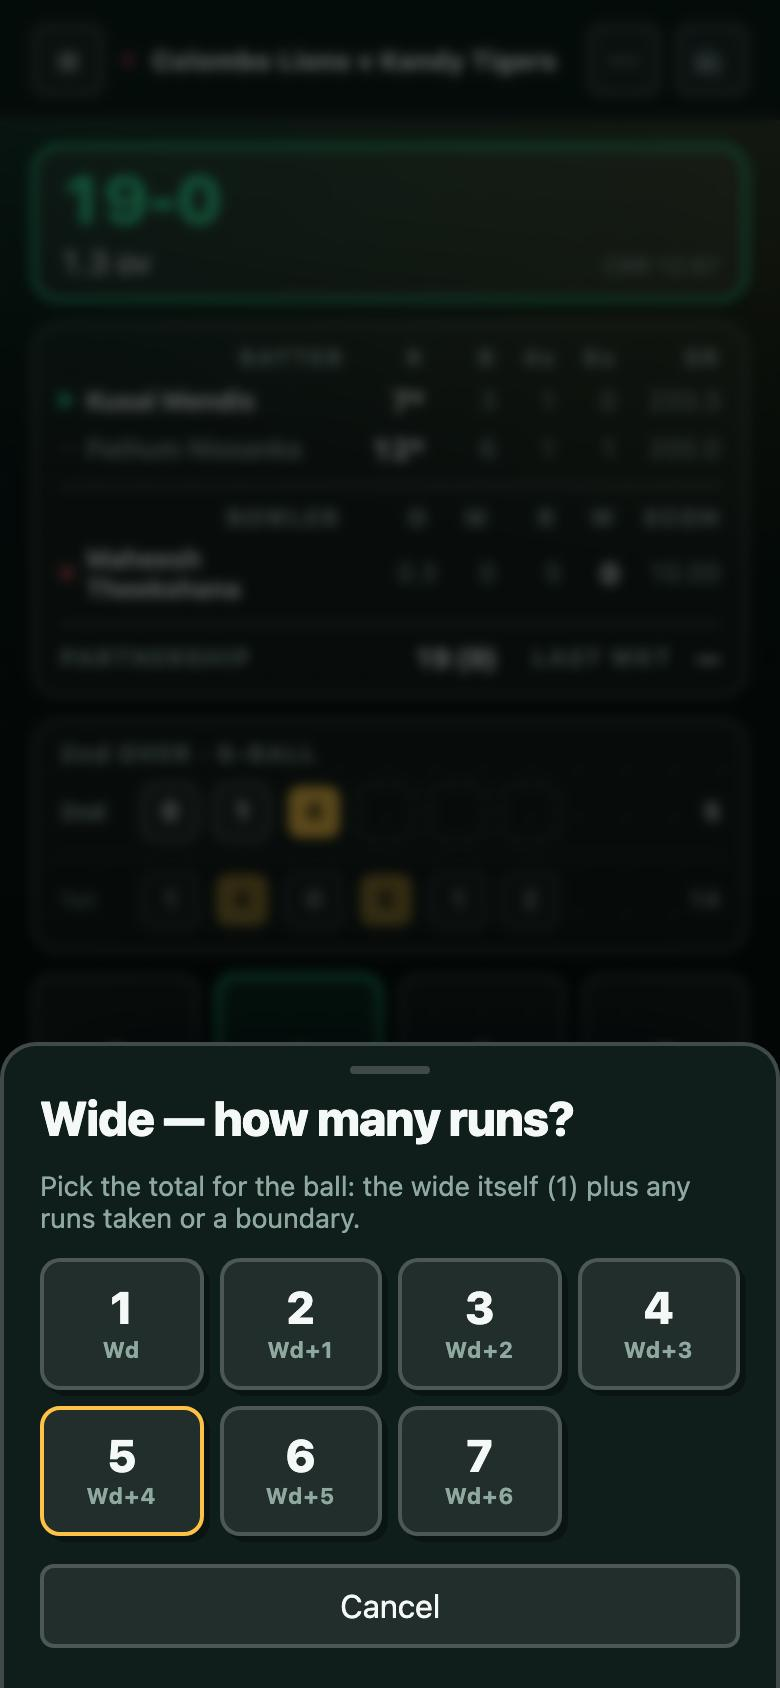
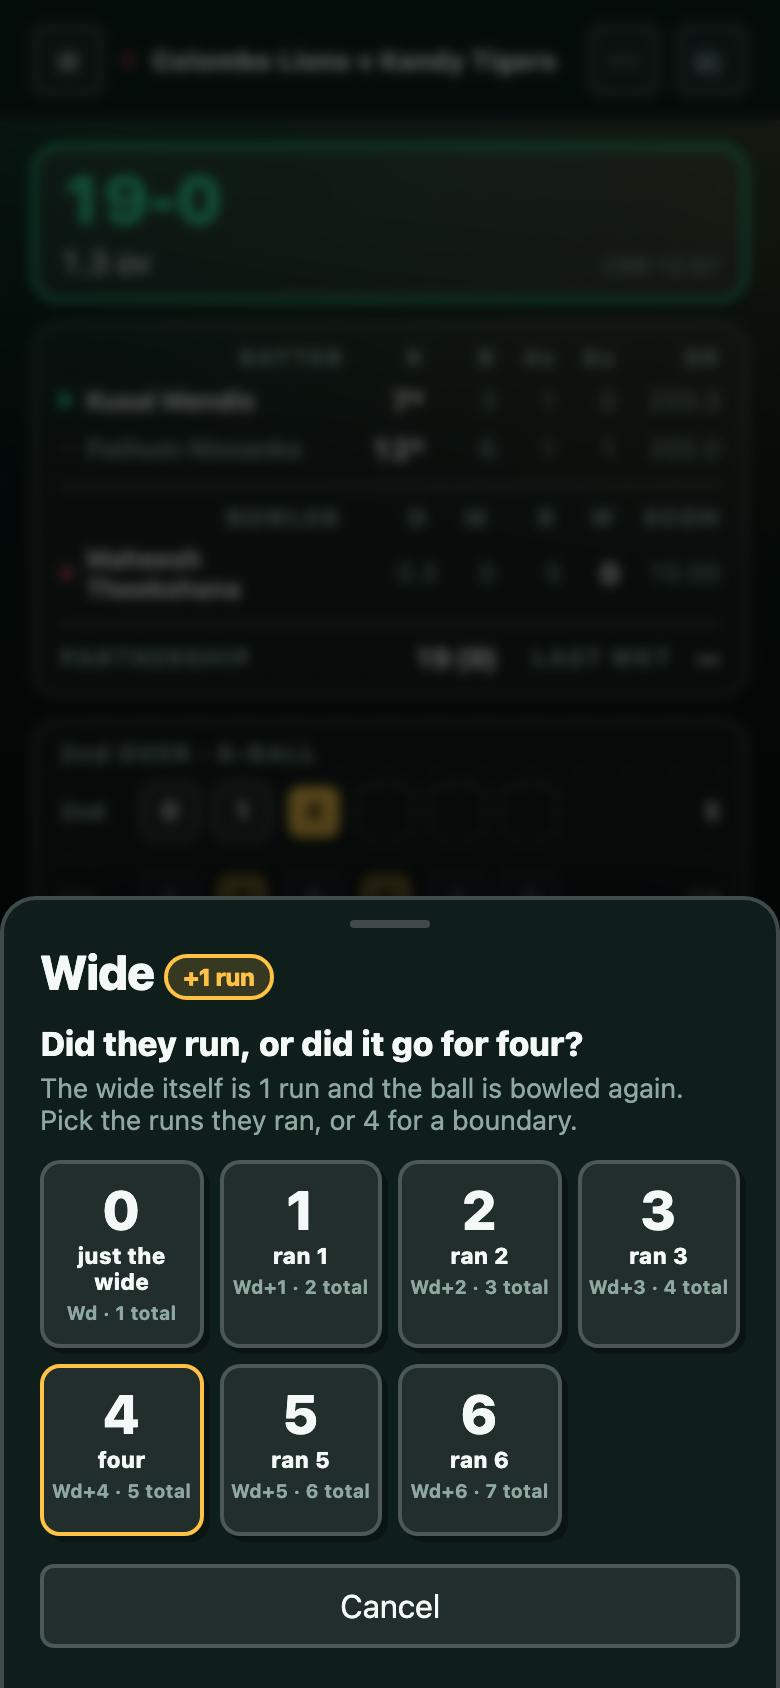
Extras sheet asks for the runs on top of a wide/no-ball, with clearer tiles
Big number = runs run or hit; each tile also names it (just the wide, four,
six) and shows the over chip and the ball's total. The base run is a badge
in the title. Tutorial text and screenshots updated.

Changed region(s): [[0.0, 0.5237, 0.9538, 0.8934], [0.9538, 0.5237, 1.0, 0.6469], [0.4308, 0.5237, 0.5538, 0.5545]]

diff --git a/js/ui/match/live.js b/js/ui/match/live.js
@@ -19,34 +19,47 @@ function handleBallClick(runs){
 /* An extra (wide / no-ball / bye / leg bye) always asks how many runs it was
    worth in its own sheet, so the scorer can't record it without choosing.
    ui.pendingExtra is both "is the sheet open" and which extra; a tap on a
-   tile goes through handleBallClick like the run pad used to. Each tile shows
-   the total the ball adds to the score (base run included) and the chip it
-   leaves in the over row. */
+   tile goes through handleBallClick like the run pad used to. For a wide or
+   no-ball the question is the runs run or hit *on top of* the extra itself
+   (that's what data-runs / event.runs is); each tile spells out the ball's
+   total and the chip it leaves in the over row. Byes/leg byes start at 1. */
 function renderExtraRunsModal(inn){
   const kind = ui.pendingExtra;
+  const plural = n => `${n} run${n === 1 ? "" : "s"}`;
   const cfg = {
     wide:   { title: "Wide", base: inn.wideBaseRuns, from: 0, chip: n => n ? `Wd+${n}` : "Wd",
-              hint: `Pick the total for the ball: the wide itself (${inn.wideBaseRuns}) plus any runs taken or a boundary.` },
+              ask: "Did they run, or did it go for four?",
+              note: `The wide itself is ${plural(inn.wideBaseRuns)} and the ball is bowled again. Pick the runs they ran, or 4 for a boundary.`,
+              label: n => n === 0 ? "just the wide" : n === 4 ? "four" : `ran ${n}` },
     noball: { title: "No ball", base: inn.noBallBaseRuns, from: 0, chip: n => n ? `Nb+${n}` : "Nb",
-              hint: `Pick the total for the ball: the no-ball itself (${inn.noBallBaseRuns}) plus any runs off the bat.${inn.freeHitOnNoBall ? " The next ball is a free hit." : ""}` },
-    bye:    { title: "Bye", base: 0, from: 1, chip: n => `B${n}`,
-              hint: "Byes go on the team total, not against the bowler." },
-    legbye: { title: "Leg bye", base: 0, from: 1, chip: n => `Lb${n}`,
-              hint: "Leg byes go on the team total, not against the bowler." }
+              ask: "How many off the bat (or run)?",
+              note: `The no-ball itself is ${plural(inn.noBallBaseRuns)} and the ball is bowled again${inn.freeHitOnNoBall ? "; the next ball is a free hit" : ""}. Pick the runs hit or run — they go to the batter.`,
+              label: n => n === 0 ? "just the no-ball" : n === 4 ? "four" : n === 6 ? "six" : plural(n) },
+    bye:    { title: "Byes", base: 0, from: 1, chip: n => `B${n}`,
+              ask: "How many byes?",
+              note: "Runs the batters ran (or a boundary) without the bat touching it. They count as a ball and go on the team total, not against the bowler.",
+              label: n => n === 4 ? "four" : plural(n) },
+    legbye: { title: "Leg byes", base: 0, from: 1, chip: n => `Lb${n}`,
+              ask: "How many leg byes?",
+              note: "Runs off the batter's body (not the bat). They count as a ball and go on the team total, not against the bowler.",
+              label: n => n === 4 ? "four" : plural(n) }
   }[kind];
   if (!cfg) return "";
   const options = [];
   for (let n = cfg.from; n <= 6; n++) options.push(n);
   return `
     <div class="modal-backdrop">
-      <div class="modal extra-runs-modal" data-keep-scroll="extra-runs">
+      <div class="modal extra-runs-modal" data-keep-scroll="extra-runs" role="dialog" aria-modal="true" aria-label="${cfg.title}">
         <div class="wicket-modal-head">
-          <h2>${cfg.title} — how many runs?</h2>
+          <h2>${cfg.title}${cfg.base ? ` <span class="extra-base">+${plural(cfg.base)}</span>` : ""}</h2>
         </div>
-        <p class="hint">${escapeHtml(cfg.hint)}</p>
+        <p class="extra-ask">${cfg.ask}</p>
+        <p class="hint">${escapeHtml(cfg.note)}</p>
         <div class="run-pad small extra-runs-pad">
-          ${options.map(n => `<button type="button" data-action="ball" data-runs="${n}" class="run-btn${n === 4 || (n === 6 && kind === "noball") ? " boundary" : ""}">
-            <span class="total">${cfg.base + n}</span><span class="chip-label">${cfg.chip(n)}</span>
+          ${options.map(n => `<button type="button" data-action="ball" data-runs="${n}" class="run-btn${n === 4 || (n === 6 && kind === "noball") ? " boundary" : ""}" aria-label="${cfg.label(n)}, ${plural(cfg.base + n)} in total">
+            <span class="total">${n}</span>
+            <span class="what">${cfg.label(n)}</span>
+            <span class="chip-label">${cfg.chip(n)} · ${cfg.base + n} total</span>
           </button>`).join("")}
         </div>
         <button type="button" data-action="close-extra" class="ghost" style="width:100%;margin-top:6px;">Cancel</button>

diff --git a/test.js b/test.js
@@ -948,17 +948,19 @@ async function main(){
     win.eval(`ui.matchMenu = null; { const inn = currentInnings(state.match); inn.bowler = "Wanindu"; ensureBowler(inn, "Wanindu"); } render();`);
     const extraBtn = x => doc.querySelector(`#app [data-action="toggle-extra"][data-extra="${x}"]`);
     const extraSheet = () => doc.querySelector("#modal-root .extra-runs-modal");
-    const tile = total => [...extraSheet().querySelectorAll('[data-action="ball"]')].find(b => b.querySelector(".total").textContent === String(total));
+    // Tiles ask for the runs on top of the extra; the big number is that, the small line the total.
+    const tile = runs => extraSheet().querySelector(`[data-action="ball"][data-runs="${runs}"]`);
     const runsNow = () => win.eval("currentInnings(state.match).runs");
     let before = runsNow();
     extraBtn("wide").click();
-    assert(extraSheet() && /Wide/.test(extraSheet().textContent) && tile(1) && tile(1).textContent.includes("Wd"), "tapping Wide opens a 'how many runs?' sheet; its first tile is the plain wide");
-    tile(5).click();
+    assert(extraSheet() && /Wide/.test(extraSheet().textContent) && tile(0) && /just the wide/.test(tile(0).textContent) && /Wd · 1 total/.test(tile(0).textContent), "tapping Wide asks for the runs on top; the 0 tile is just the wide (1 total)");
+    assert(tile(4).querySelector(".total").textContent === "4" && /Wd\+4 · 5 total/.test(tile(4).textContent), "the 4 tile shows 4 (a boundary) and that the ball is worth 5");
+    tile(4).click();
     assert(!extraSheet() && runsNow() === before + 5 && win.eval("currentInnings(state.match).extras.wides") >= 5, "a tile records the wide with that total (Wd+4 = 5) and closes the sheet");
     before = runsNow();
     extraBtn("noball").click();
-    tile(5).click();
-    assert(runsNow() === before + 5 && win.eval("currentInnings(state.match).freeHit") === true, "no-ball tile 5 = Nb + 4 off the bat, and sets the free hit");
+    tile(4).click();
+    assert(runsNow() === before + 5 && win.eval("currentInnings(state.match).freeHit") === true, "no-ball tile 4 = Nb + 4 off the bat (5), and sets the free hit");
     before = runsNow();
     extraBtn("bye").click();
     assert(!tile(0) && tile(1), "byes start at 1");

diff --git a/css/app.css b/css/app.css
@@ -204,9 +204,13 @@ button:disabled{opacity:.4;cursor:not-allowed;box-shadow:none;}
 }
 .extra-pad button.active{background:var(--accent);color:var(--accent-ink);border-color:var(--bg);}
 /* "How many runs?" sheet for an extra: total on top, over-row chip under it. */
-.extra-runs-pad .run-btn{ display:flex; flex-direction:column; align-items:center; gap:2px; padding:12px 0; }
-.extra-runs-pad .run-btn .total{ font-size:1.4rem; font-weight:800; line-height:1; }
-.extra-runs-pad .run-btn .chip-label{ font-size:.7rem; font-weight:700; color:var(--muted); letter-spacing:.04em; }
+.extra-runs-pad{ grid-template-columns:repeat(4, minmax(0, 1fr)); }
+.extra-runs-pad .run-btn{ display:flex; flex-direction:column; align-items:center; gap:3px; padding:10px 2px; min-height:86px; min-width:0; }
+.extra-runs-pad .run-btn .total{ font-size:1.7rem; font-weight:800; line-height:1; }
+.extra-runs-pad .run-btn .what{ font-size:.7rem; font-weight:800; line-height:1.15; text-align:center; }
+.extra-runs-pad .run-btn .chip-label{ font-size:.6rem; font-weight:700; color:var(--muted); line-height:1.2; text-align:center; }
+.extra-base{ font-size:.75rem; font-weight:800; vertical-align:middle; padding:2px 8px; border-radius:999px; background:rgba(var(--accent-rgb),.16); border:2px solid var(--accent); color:var(--accent); }
+.modal .extra-ask{ font-size:1.05rem; font-weight:800; margin:2px 0 4px; color:var(--text); }
 .extra-runs-pad .run-btn.boundary{ border-color:var(--accent); }
 
 .action-row{display:grid;grid-template-columns:1fr 1fr;gap:8px;margin-top:4px;margin-bottom:10px;}

diff --git a/tutorial.html b/tutorial.html
@@ -215,7 +215,7 @@
     <div class="step">
       <div>
         <h3>4 · Extras: wides, no-balls, byes, leg byes <span class="lvl easy">Beginner</span></h3>
-        <p>Tap <span class="ui">Wide</span>, <span class="ui">No ball</span>, <span class="ui">Bye</span> or <span class="ui">Leg bye</span>. A sheet asks <b>how many runs</b> the ball was worth in total — e.g. a wide that went for four is <span class="ui">5 · Wd+4</span>.</p>
+        <p>Tap <span class="ui">Wide</span>, <span class="ui">No ball</span>, <span class="ui">Bye</span> or <span class="ui">Leg bye</span>. A sheet asks how many runs were <b>run or hit on top of the extra</b> — tap <span class="ui">0</span> for just the wide or no-ball, <span class="ui">4</span> if it went for four, and so on. Each tile also shows what the ball is worth in total, e.g. a wide that went for four is <i>Wd+4 · 5 total</i>.</p>
         <ul>
           <li>Wides and no-balls don't count as a ball of the over; byes and leg byes do.</li>
           <li>Byes and leg byes go to the team, not against the bowler.</li>

diff --git a/CLAUDE.md b/CLAUDE.md
@@ -455,12 +455,15 @@ stand-in, that would silently record the wrong number. Build a real
 custom-runs input first if this is ever added.
 
 **Extras ask for their runs in a sheet.** Tapping Wide / No ball / Bye /
-Leg bye opens `renderExtraRunsModal` ("Wide — how many runs?"), so an extra
-can't be recorded without picking its value. `ui.pendingExtra` is both "is
-the sheet open" and which extra (checked in `render()` after `wicketFlow`);
-its tiles are `data-action="ball"` → `handleBallClick`, same as before. Each
-tile shows the **total** the ball adds (the preset's wide/no-ball base run
-included) with the over-row chip under it (`Wd+4`, `Nb+2`, `B3`); byes and
+Leg bye opens `renderExtraRunsModal`, so an extra can't be recorded without
+picking its value. `ui.pendingExtra` is both "is the sheet open" and which
+extra (checked in `render()` after `wicketFlow`); its tiles are
+`data-action="ball"` → `handleBallClick`, same as before. For a wide or
+no-ball it asks for the **runs run or hit on top of the extra** ("Did they
+run, or did it go for four?" / "How many off the bat (or run)?" — the base
+run is a `+1 run` badge in the title): the big number on each tile is that
+(= `event.runs`), with a word ("just the wide", "four", "six") and the
+over-row chip plus the ball's total underneath (`Wd+4 · 5 total`). Byes and
 leg byes start at 1. It's an overlay (back/Esc/Cancel close it, nothing
 recorded).
 
